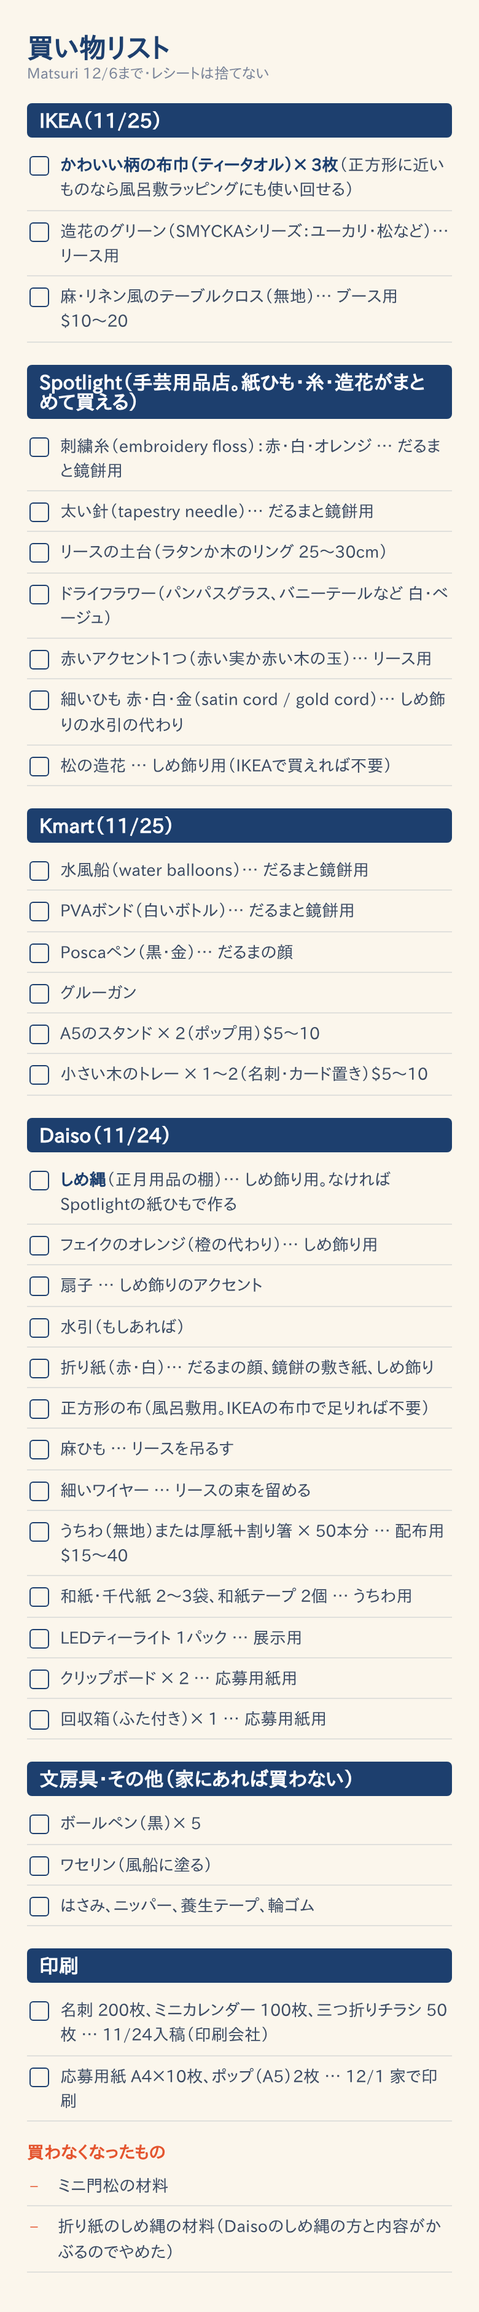
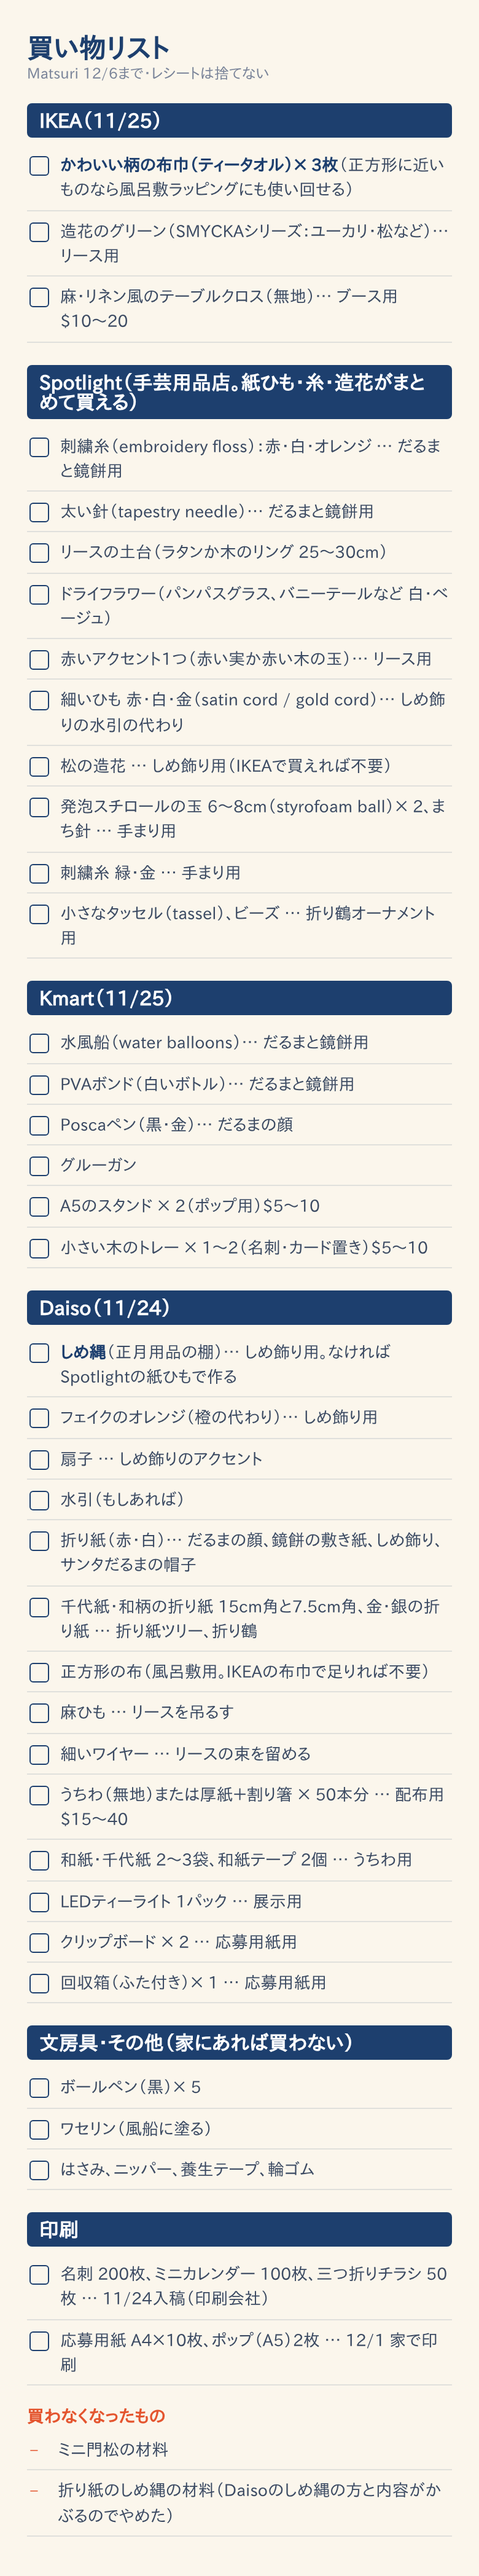
Add Japan x Christmas ideas (origami tree, Santa daruma, temari, crane ornaments)
Claude-Session: https://claude.ai/code/session_01LMQJVP3iY12Mot613LaoTx

diff --git a/matsuri-sydney/print/lists/shopping_list.html b/matsuri-sydney/print/lists/shopping_list.html
@@ -1,52 +1,47 @@
-<!doctype html><html><head><meta charset="utf-8"><style>
-body{margin:0;background:#FBF6EC;font-family:'Noto Sans CJK JP','Noto Sans JP',sans-serif;color:#3C4B63}
-.w{width:390px;padding:28px 22px 32px;box-sizing:border-box}
-h1{font-size:22px;color:#1D3F6E;margin:0 0 4px} .sub{font-size:12px;color:#7a8499;margin-bottom:10px}
-h2{font-size:16px;color:#fff;background:#1D3F6E;padding:6px 10px;margin:18px 0 6px;border-radius:4px}
-h3{font-size:14px;color:#E4552F;margin:18px 0 4px}
-ul{list-style:none;padding:0;margin:0} li{display:flex;gap:9px;font-size:13.5px;line-height:1.5;padding:6px 2px;border-bottom:1px solid rgba(29,63,110,.12)}
-.box{flex:0 0 14px;height:14px;border:1.5px solid #1D3F6E;border-radius:3px;margin-top:3px} .dash{flex:0 0 14px;color:#E4552F}
-b{color:#1D3F6E}
-</style></head><body><div class="w"><h1>買い物リスト</h1><div class="sub">Matsuri 12/6まで・レシートは捨てない</div><h2>IKEA（11/25）</h2>
-<ul><li><span class="box"></span><span><b>かわいい柄の布巾（ティータオル）× 3枚</b>（正方形に近いものなら風呂敷ラッピングにも使い回せる）</span></li>
-<li><span class="box"></span><span>造花のグリーン（SMYCKAシリーズ：ユーカリ・松など）… リース用</span></li>
-<li><span class="box"></span><span>麻・リネン風のテーブルクロス（無地）… ブース用 $10〜20</span></li></ul>
+<!doctype html><html><head><meta charset="utf-8"><style>body{margin:0;background:#FBF6EC;font-family:'Noto Sans CJK JP',sans-serif;color:#3C4B63}.w{width:390px;padding:28px 22px 32px;box-sizing:border-box}h1{font-size:22px;color:#1D3F6E;margin:0 0 4px}.sub{font-size:12px;color:#7a8499;margin-bottom:10px}h2{font-size:16px;color:#fff;background:#1D3F6E;padding:6px 10px;margin:18px 0 6px;border-radius:4px}h3{font-size:14px;color:#E4552F;margin:18px 0 4px}ul{list-style:none;padding:0;margin:0}li{display:flex;gap:9px;font-size:13.5px;line-height:1.5;padding:6px 2px;border-bottom:1px solid rgba(29,63,110,.12)}.box{flex:0 0 14px;height:14px;border:1.5px solid #1D3F6E;border-radius:3px;margin-top:3px}.dash{flex:0 0 14px;color:#E4552F}b{color:#1D3F6E}</style></head><body><div class="w"><h1>買い物リスト</h1><div class="sub">Matsuri 12/6まで・レシートは捨てない</div><h2>IKEA（11/25）</h2>
+<ul><li><span class=box></span><span><b>かわいい柄の布巾（ティータオル）× 3枚</b>（正方形に近いものなら風呂敷ラッピングにも使い回せる）</span></li>
+<li><span class=box></span><span>造花のグリーン（SMYCKAシリーズ：ユーカリ・松など）… リース用</span></li>
+<li><span class=box></span><span>麻・リネン風のテーブルクロス（無地）… ブース用 $10〜20</span></li></ul>
 <h2>Spotlight（手芸用品店。紙ひも・糸・造花がまとめて買える）</h2>
-<ul><li><span class="box"></span><span>刺繍糸（embroidery floss）：赤・白・オレンジ … だるまと鏡餅用</span></li>
-<li><span class="box"></span><span>太い針（tapestry needle）… だるまと鏡餅用</span></li>
-<li><span class="box"></span><span>リースの土台（ラタンか木のリング 25〜30cm）</span></li>
-<li><span class="box"></span><span>ドライフラワー（パンパスグラス、バニーテールなど 白・ベージュ）</span></li>
-<li><span class="box"></span><span>赤いアクセント1つ（赤い実か赤い木の玉）… リース用</span></li>
-<li><span class="box"></span><span>細いひも 赤・白・金（satin cord / gold cord）… しめ飾りの水引の代わり</span></li>
-<li><span class="box"></span><span>松の造花 … しめ飾り用（IKEAで買えれば不要）</span></li></ul>
+<ul><li><span class=box></span><span>刺繍糸（embroidery floss）：赤・白・オレンジ … だるまと鏡餅用</span></li>
+<li><span class=box></span><span>太い針（tapestry needle）… だるまと鏡餅用</span></li>
+<li><span class=box></span><span>リースの土台（ラタンか木のリング 25〜30cm）</span></li>
+<li><span class=box></span><span>ドライフラワー（パンパスグラス、バニーテールなど 白・ベージュ）</span></li>
+<li><span class=box></span><span>赤いアクセント1つ（赤い実か赤い木の玉）… リース用</span></li>
+<li><span class=box></span><span>細いひも 赤・白・金（satin cord / gold cord）… しめ飾りの水引の代わり</span></li>
+<li><span class=box></span><span>松の造花 … しめ飾り用（IKEAで買えれば不要）</span></li>
+<li><span class=box></span><span>発泡スチロールの玉 6〜8cm（styrofoam ball）× 2、まち針 … 手まり用</span></li>
+<li><span class=box></span><span>刺繍糸 緑・金 … 手まり用</span></li>
+<li><span class=box></span><span>小さなタッセル（tassel）、ビーズ … 折り鶴オーナメント用</span></li></ul>
 <h2>Kmart（11/25）</h2>
-<ul><li><span class="box"></span><span>水風船（water balloons）… だるまと鏡餅用</span></li>
-<li><span class="box"></span><span>PVAボンド（白いボトル）… だるまと鏡餅用</span></li>
-<li><span class="box"></span><span>Poscaペン（黒・金）… だるまの顔</span></li>
-<li><span class="box"></span><span>グルーガン</span></li>
-<li><span class="box"></span><span>A5のスタンド × 2（ポップ用）$5〜10</span></li>
-<li><span class="box"></span><span>小さい木のトレー × 1〜2（名刺・カード置き）$5〜10</span></li></ul>
+<ul><li><span class=box></span><span>水風船（water balloons）… だるまと鏡餅用</span></li>
+<li><span class=box></span><span>PVAボンド（白いボトル）… だるまと鏡餅用</span></li>
+<li><span class=box></span><span>Poscaペン（黒・金）… だるまの顔</span></li>
+<li><span class=box></span><span>グルーガン</span></li>
+<li><span class=box></span><span>A5のスタンド × 2（ポップ用）$5〜10</span></li>
+<li><span class=box></span><span>小さい木のトレー × 1〜2（名刺・カード置き）$5〜10</span></li></ul>
 <h2>Daiso（11/24）</h2>
-<ul><li><span class="box"></span><span><b>しめ縄</b>（正月用品の棚）… しめ飾り用。なければSpotlightの紙ひもで作る</span></li>
-<li><span class="box"></span><span>フェイクのオレンジ（橙の代わり）… しめ飾り用</span></li>
-<li><span class="box"></span><span>扇子 … しめ飾りのアクセント</span></li>
-<li><span class="box"></span><span>水引（もしあれば）</span></li>
-<li><span class="box"></span><span>折り紙（赤・白）… だるまの顔、鏡餅の敷き紙、しめ飾り</span></li>
-<li><span class="box"></span><span>正方形の布（風呂敷用。IKEAの布巾で足りれば不要）</span></li>
-<li><span class="box"></span><span>麻ひも … リースを吊るす</span></li>
-<li><span class="box"></span><span>細いワイヤー … リースの束を留める</span></li>
-<li><span class="box"></span><span>うちわ（無地）または厚紙＋割り箸 × 50本分 … 配布用 $15〜40</span></li>
-<li><span class="box"></span><span>和紙・千代紙 2〜3袋、和紙テープ 2個 … うちわ用</span></li>
-<li><span class="box"></span><span>LEDティーライト 1パック … 展示用</span></li>
-<li><span class="box"></span><span>クリップボード × 2 … 応募用紙用</span></li>
-<li><span class="box"></span><span>回収箱（ふた付き）× 1 … 応募用紙用</span></li></ul>
+<ul><li><span class=box></span><span><b>しめ縄</b>（正月用品の棚）… しめ飾り用。なければSpotlightの紙ひもで作る</span></li>
+<li><span class=box></span><span>フェイクのオレンジ（橙の代わり）… しめ飾り用</span></li>
+<li><span class=box></span><span>扇子 … しめ飾りのアクセント</span></li>
+<li><span class=box></span><span>水引（もしあれば）</span></li>
+<li><span class=box></span><span>折り紙（赤・白）… だるまの顔、鏡餅の敷き紙、しめ飾り、サンタだるまの帽子</span></li>
+<li><span class=box></span><span>千代紙・和柄の折り紙 15cm角と7.5cm角、金・銀の折り紙 … 折り紙ツリー、折り鶴</span></li>
+<li><span class=box></span><span>正方形の布（風呂敷用。IKEAの布巾で足りれば不要）</span></li>
+<li><span class=box></span><span>麻ひも … リースを吊るす</span></li>
+<li><span class=box></span><span>細いワイヤー … リースの束を留める</span></li>
+<li><span class=box></span><span>うちわ（無地）または厚紙＋割り箸 × 50本分 … 配布用 $15〜40</span></li>
+<li><span class=box></span><span>和紙・千代紙 2〜3袋、和紙テープ 2個 … うちわ用</span></li>
+<li><span class=box></span><span>LEDティーライト 1パック … 展示用</span></li>
+<li><span class=box></span><span>クリップボード × 2 … 応募用紙用</span></li>
+<li><span class=box></span><span>回収箱（ふた付き）× 1 … 応募用紙用</span></li></ul>
 <h2>文房具・その他（家にあれば買わない）</h2>
-<ul><li><span class="box"></span><span>ボールペン（黒）× 5</span></li>
-<li><span class="box"></span><span>ワセリン（風船に塗る）</span></li>
-<li><span class="box"></span><span>はさみ、ニッパー、養生テープ、輪ゴム</span></li></ul>
+<ul><li><span class=box></span><span>ボールペン（黒）× 5</span></li>
+<li><span class=box></span><span>ワセリン（風船に塗る）</span></li>
+<li><span class=box></span><span>はさみ、ニッパー、養生テープ、輪ゴム</span></li></ul>
 <h2>印刷</h2>
-<ul><li><span class="box"></span><span>名刺 200枚、ミニカレンダー 100枚、三つ折りチラシ 50枚 … 11/24入稿（印刷会社）</span></li>
-<li><span class="box"></span><span>応募用紙 A4×10枚、ポップ（A5）2枚 … 12/1 家で印刷</span></li></ul>
+<ul><li><span class=box></span><span>名刺 200枚、ミニカレンダー 100枚、三つ折りチラシ 50枚 … 11/24入稿（印刷会社）</span></li>
+<li><span class=box></span><span>応募用紙 A4×10枚、ポップ（A5）2枚 … 12/1 家で印刷</span></li></ul>
 <h3>買わなくなったもの</h3>
-<ul><li><span class="dash">–</span><span>ミニ門松の材料</span></li>
-<li><span class="dash">–</span><span>折り紙のしめ縄の材料（Daisoのしめ縄の方と内容がかぶるのでやめた）</span></li></ul></div></body></html>
+<ul><li><span class=dash>–</span><span>ミニ門松の材料</span></li>
+<li><span class=dash>–</span><span>折り紙のしめ縄の材料（Daisoのしめ縄の方と内容がかぶるのでやめた）</span></li></ul></div></body></html>

diff --git a/matsuri-sydney/DIY作り方_クリスマス・お正月.md b/matsuri-sydney/DIY作り方_クリスマス・お正月.md
@@ -234,5 +234,33 @@
 
 ---
 
+## ⑦ 日本×クリスマスのアイデア4つ（Matsuriの後、12月に投稿）
+折り紙ツリーと折り鶴は簡単なので、**Matsuri前に作ってブースのツリーに飾る**。
+
+### 7-1. 和紙の折り紙ツリー（難易度：簡単）
+- **材料：** 千代紙・和柄の折り紙 15cm角（Daiso / 紀伊國屋）、金色の折り紙、のり
+- **作り方の流れ：** 1枚で「鶴の基本形（正方基本形）」を折る → 4か所の角を細く折り込んでとがった形にする → 下から段々に切り込みと折り返しを入れて枝にする → 同じものを大中小3つ作って並べる
+- **ポイント：** 柄を変えて3本並べると写真映えする。金の紙を1本混ぜると高級感が出る
+- **切り口：** 千代紙（chiyogami）＝着物の柄を元にした日本の紙
+
+### 7-2. サンタだるま（難易度：簡単）
+- **材料：** ③の糸だるまをそのまま使う（赤い糸のだるま）＋白い刺繍糸（ひげ）＋白いポンポンか白い糸の玉（帽子の先）。紙粘土（paper clay / air dry clay：Daiso・Kmart）で作ってもよい
+- **作り方の流れ：** だるまの顔の下に白い糸をまとめて貼ってひげにする → 頭に赤い折り紙で小さな三角帽子を作って貼る → 帽子の先に白い玉を付ける
+- **切り口：** 「願いをかなえるだるま」と「願いをかなえるサンタ」は同じ役目。クリスマスと新年をつなぐ
+- だるまを作る日に一緒に作れば、材料も手間も増えない
+
+### 7-3. クリスマス手まり（難易度：中級）
+- **材料：** 発泡スチロールの玉 6〜8cm（styrofoam ball：Spotlight / Daiso）、赤・緑・金の刺繍糸か毛糸、まち針（pins）、細いリボン（吊るす用）
+- **簡単にした作り方：** 玉に赤い糸をすき間なく巻いて土台にする → まち針を上・下・横4か所に刺して目印にする → 金の糸を目印から目印へ、上下に通るように巻いて「線」を作る → 緑の糸で、線の間に星形やひし形を重ねて巻く → リボンを付けて吊るす
+- **切り口：** 手まり（temari）は、昔は着物の端切れの糸を集めて子どものために作った玉。もったいない精神から生まれた工芸
+- 時間がかかるので、まず1個だけ作る
+
+### 7-4. 折り鶴オーナメント（難易度：簡単）
+- **材料：** 和柄・金・銀・赤の折り紙 7.5cm角（Daiso）、細い糸か水引の代わりのひも、ビーズ、小さなタッセル（tassel：Spotlight / Daiso）、針
+- **作り方の流れ：** 鶴を折る → 針で鶴の背中の真ん中に糸を通す → 上に輪を作り、下にビーズとタッセルを付ける
+- **切り口：** 鶴は「千年生きる」と言われる長寿のシンボル。千羽鶴は願いがかなう贈り物
+
+---
+
 ## 買い物メモ
 全部まとめたリストは `買い物リスト.md` を見る。

diff --git a/matsuri-sydney/やることまとめ.md b/matsuri-sydney/やることまとめ.md
@@ -21,6 +21,7 @@
 | 11/26 | Japandiクリスマスリースを作りながら撮影 |
 | 11/28 | 風呂敷ラッピング、Daisoのしめ飾り、だるまと鏡餅（糸を巻いて乾かす）を作りながら撮影 |
 | 11/30 | だるまと鏡餅の仕上げ（顔を描く）と撮影 |
+| 11/28 | 折り紙ツリー・折り鶴オーナメント（ブースのツリー用）、サンタだるま（だるまと一緒に） |
 | 未定 | IKEAの布巾の動画（https://www.instagram.com/reel/DdRI3ibJaes/ ）を見て作る |
 
 作ったものは全部ブースに飾る。
@@ -36,6 +37,10 @@
 | 12/5 | 「See you tomorrow」 |
 | 12/6 | 当日：ストーリーを3〜5回 |
 | 12/10ごろ | 🎍 Daisoのしめ飾り（意味の解説つき） |
+| 12月中 | 🎄 和紙の折り紙ツリー |
+| 12月中 | 🕊 折り鶴オーナメント |
+| 12月中 | 🎅 サンタだるま |
+| 12月中 | 🧶 クリスマス手まり |
 | 12月中 | 🧵 IKEAの布巾の投稿 |
 | 12月中 | 🎄 クリスマスの追加候補（https://www.instagram.com/reel/DffWdLtiVkk/ ） |
 | 12月中 | 🎅 毛糸のノーム（https://www.instagram.com/reel/DQq0PXeD4vL/ 。切り口は「笠地蔵」か「北欧のトムテ」のどちらか。あとで決める） |

diff --git a/matsuri-sydney/買い物リスト.md b/matsuri-sydney/買い物リスト.md
@@ -18,6 +18,9 @@
 - [ ] 赤いアクセント1つ（赤い実か赤い木の玉）… リース用
 - [ ] 細いひも 赤・白・金（satin cord / gold cord）… しめ飾りの水引の代わり
 - [ ] 松の造花 … しめ飾り用（IKEAで買えれば不要）
+- [ ] 発泡スチロールの玉 6〜8cm（styrofoam ball）× 2、まち針 … 手まり用
+- [ ] 刺繍糸 緑・金 … 手まり用
+- [ ] 小さなタッセル（tassel）、ビーズ … 折り鶴オーナメント用
 
 ## Kmart（11/25）
 - [ ] 水風船（water balloons）… だるまと鏡餅用
@@ -32,7 +35,8 @@
 - [ ] フェイクのオレンジ（橙の代わり）… しめ飾り用
 - [ ] 扇子 … しめ飾りのアクセント
 - [ ] 水引（もしあれば）
-- [ ] 折り紙（赤・白）… だるまの顔、鏡餅の敷き紙、しめ飾り
+- [ ] 折り紙（赤・白）… だるまの顔、鏡餅の敷き紙、しめ飾り、サンタだるまの帽子
+- [ ] 千代紙・和柄の折り紙 15cm角と7.5cm角、金・銀の折り紙 … 折り紙ツリー、折り鶴
 - [ ] 正方形の布（風呂敷用。IKEAの布巾で足りれば不要）
 - [ ] 麻ひも … リースを吊るす
 - [ ] 細いワイヤー … リースの束を留める
